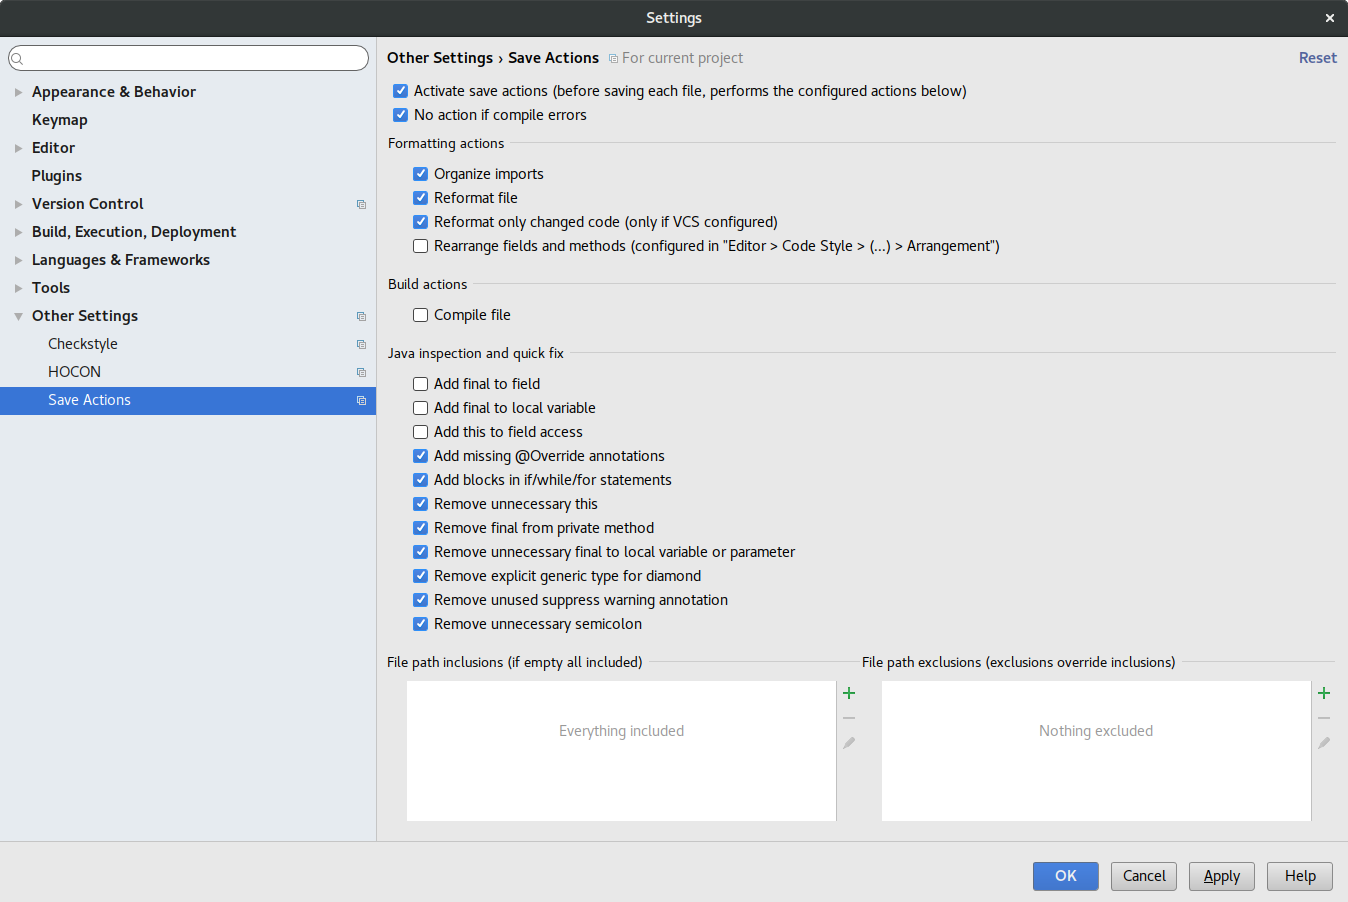
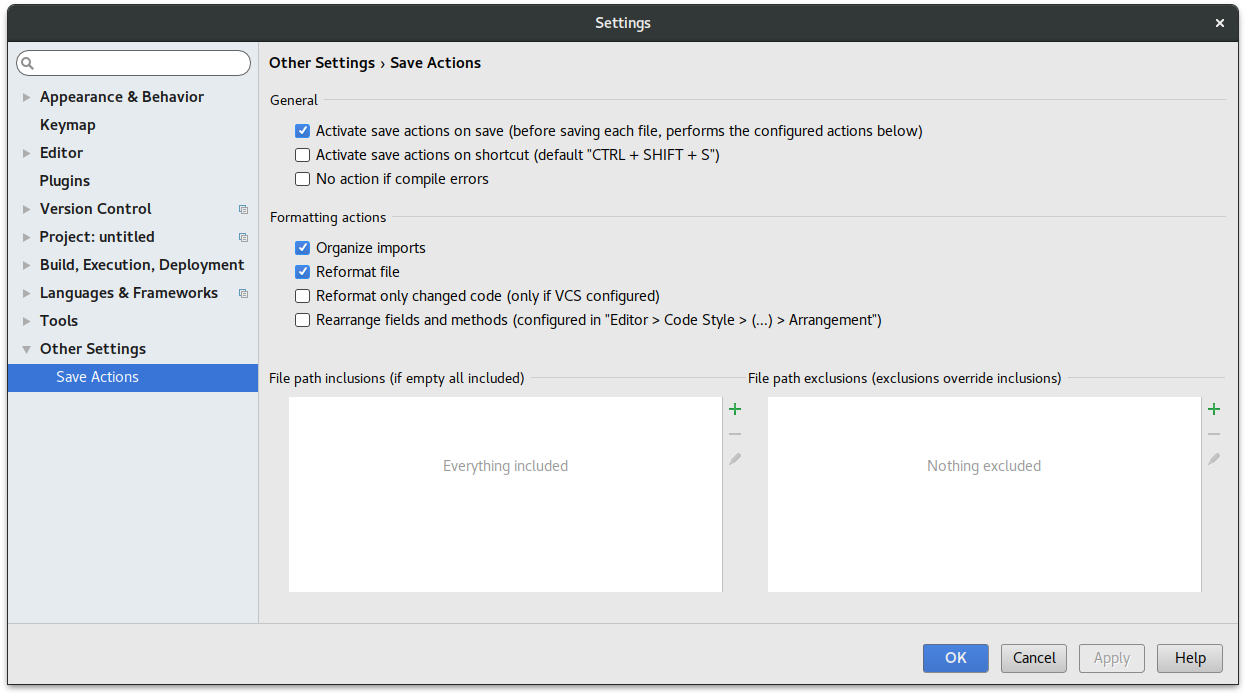
Update README documentation with java settings

diff --git a/README.md b/README.md
@@ -4,7 +4,7 @@
 
 Supports configurable, Eclipse like, save actions, including "organize imports", "reformat code", "rearrange code", "compile file" and some quick fixes like "add / remove 'this' qualifier", etc. The plugin executes the configured actions when the file is synchronised (or saved) on disk.
 
-Using the save actions plugin makes your code cleaner and more uniform across your code base by enforcing your code style and code rules every time you save. The settings file (see [files location](https://github.com/dubreuia/intellij-plugin-save-actions#files-location)) can be shared in your development team so that every developer has the same configuration.
+Using the save actions plugin makes your code cleaner and more uniform across your code base by enforcing your code style and code rules every time you save. The settings file (see [files location](#files-location)) can be shared in your development team so that every developer has the same configuration.
 
 The code style applied by the save actions plugin is the one configured your settings at "File > Settings > Editor > Code Style". For some languages, custom formatter may also be triggered by the save actions plugin. For example for Dart developers, enable "Use the dartfmt tool when formatting the whole file" option in "File > Settings > Editor > Code Style > Dart > Dartfmt".
 
@@ -16,12 +16,19 @@ The code style applied by the save actions plugin is the one configured your set
 - Rearrange code (reorder methods, fields, etc.)
 - Include / exclude files with regex support
 - Works any file type (Java, Python, XML, etc.)
-- Uses a settings file per project you can commit
-- Available keymaps for activation
-- Other IDE support (Eclipse *.epf files)
-- Automatically fix Java [inspections](https://github.com/dubreuia/intellij-plugin-save-actions/#java-quick-fixes) (Intellij IDEA only)
+- Uses a settings file per project you can commit (see [Files location](#files-location))
+- Available keymaps and actions for activation (see [Keymap and actions](#keymap-and-actions))
 
 ![Save actions plugin settings page](https://github.com/dubreuia/intellij-plugin-save-actions/blob/master/docs/intellij-save-actions-plugin-settings-page.png)
+
+## Java features
+
+Works in JetBrains IDE with Java support, like Intellij IDEA and AndroidStudio.
+
+- Eclipse configuration file `.epf` support (see [IDE support](#ide-support))
+- Automatically fix Java inspections (see [Java quick fixes](#java-fixes))
+
+![Save actions plugin settings page for Java](https://github.com/dubreuia/intellij-plugin-save-actions/blob/master/docs/intellij-save-actions-plugin-settings-page-java.png)
 
 ## Compatibility
 
@@ -103,6 +110,12 @@ If a quick fix adds something that is removed by another quick fix, the removal 
 | Remove explicit generic type for diamond                | Will remove unused right side generic types for Java 7 diamond operator. This `List<String> list = new ArrayList<String>()` becomes `List<String> list = new ArrayList<>()`
 | Remove unused suppress warning annotation               | Will remove any unused @SuppressWarning annotations
 | Remove unnecessary semicolon                            | Will remove unnecessary semicolon
+
+## IDE support
+
+The save-actions plugin supports Eclipse configuration `.epf` files (Java IDE only). You can specify a path to an Eclipse configuration file in the "IDE Support" section to import it. The plugin will load the content of the file in the plugin configuration, and disable the plugin configuration options (the checkbox will be grayed out). Use the "reset" button to remove the import.
+
+You can find an example of [an Eclipse configuration `.epf` file](src/test/resources/example.epf) in the test resources.
 
 ## Keymap and actions
 
